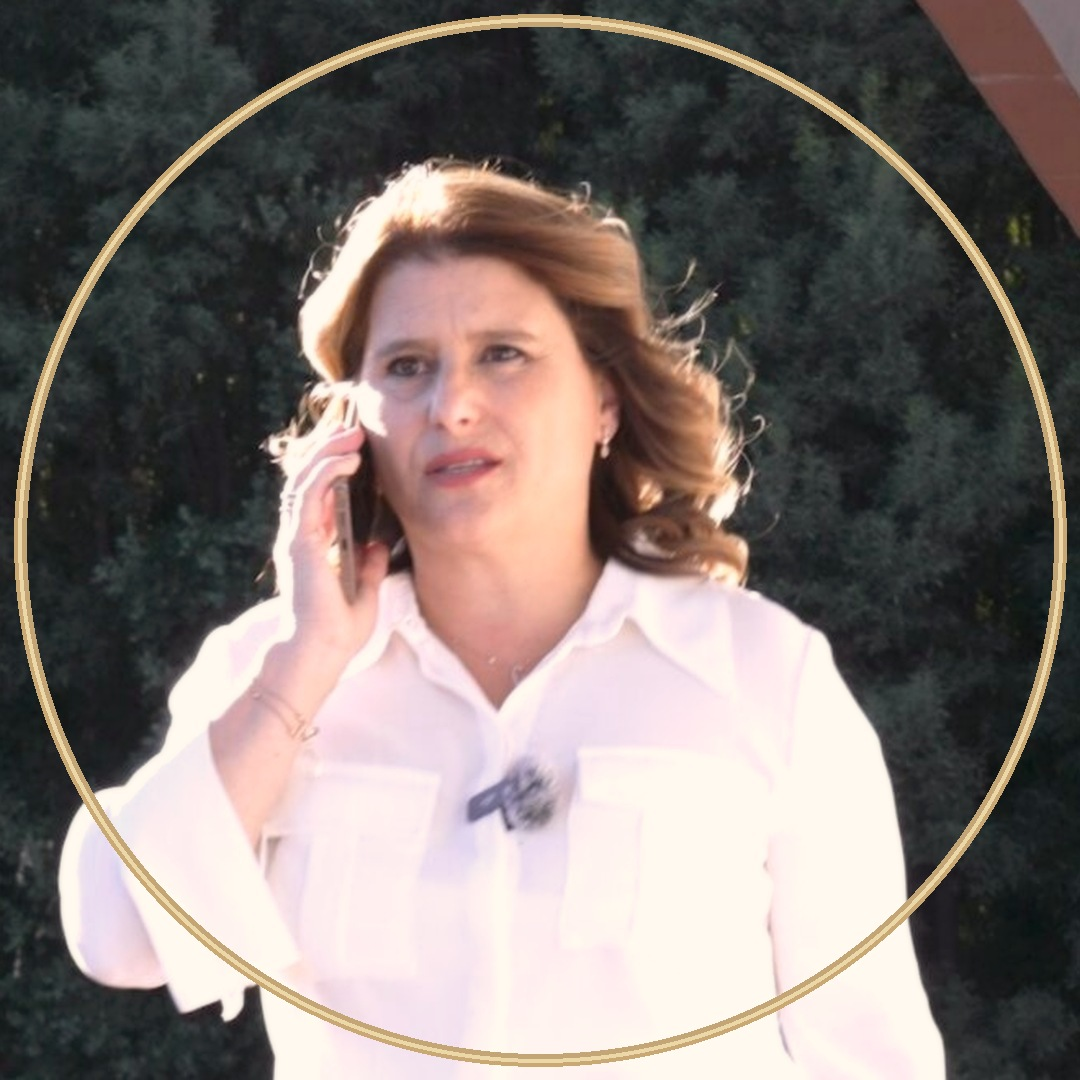
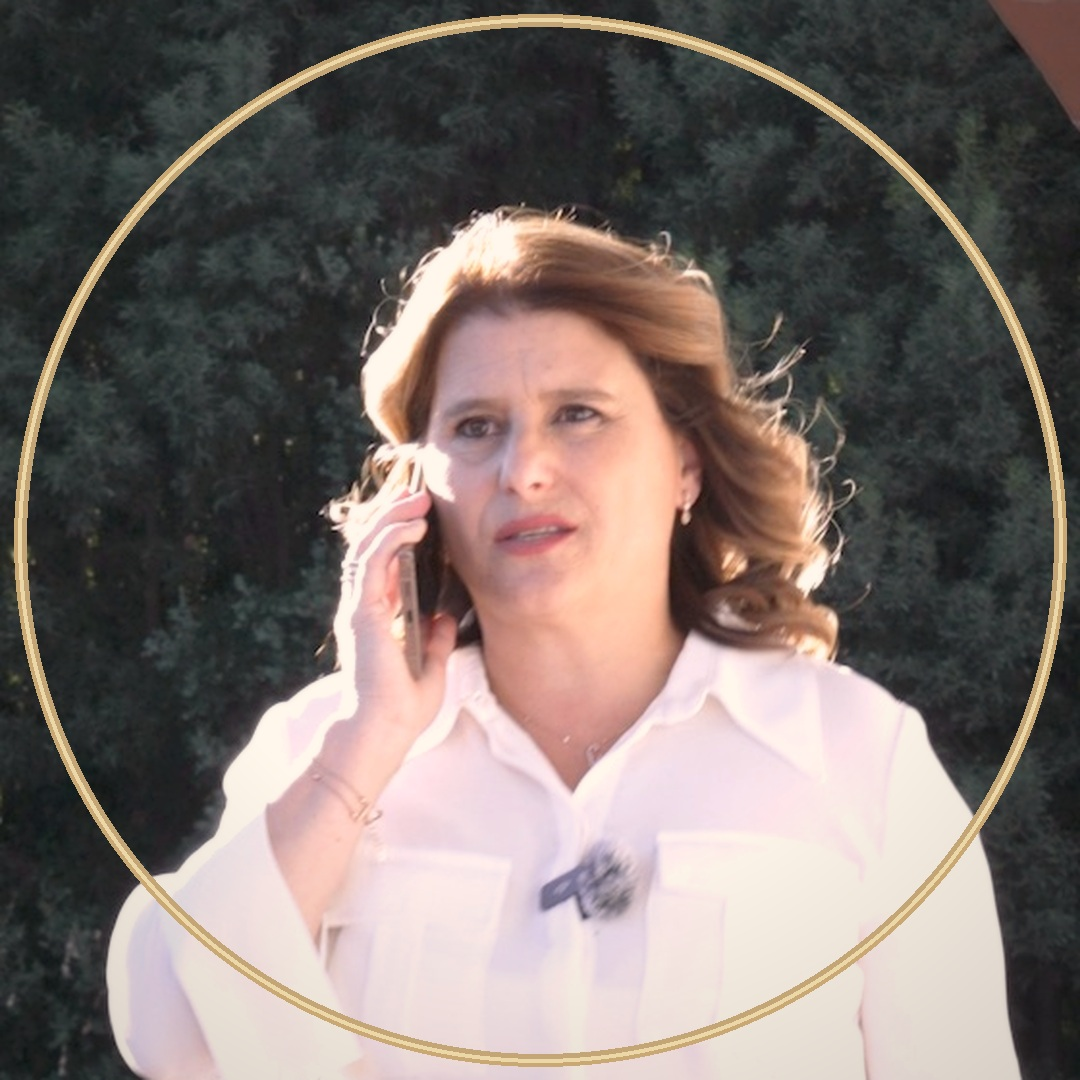
Kit Instagram: fotos de perfil editadas a partir das fotos novas
Claude-Session: https://claude.ai/code/session_011GuU4FWcGt2gAwoDV6aCC4

diff --git a/estrategia/instagram-kit.html b/estrategia/instagram-kit.html
@@ -89,7 +89,7 @@ footer{font-size:12px;color:var(--suave);border-top:1px solid var(--linha);paddi
 <section>
   <div class="sec"><span class="n">2</span><h2>Preencher o perfil</h2></div>
   <div class="perfil">
-    <div style="display:flex;flex-direction:column;gap:8px;align-items:flex-start"><img src="instagram/perfil-telemovel.jpg" alt="Foto de perfil: a Dra. Sónia ao telemóvel"><span class="lbl">Foto de perfil</span><a class="dl" href="instagram/perfil-telemovel.jpg" target="_blank" rel="noopener">Abrir para guardar (sem anel)</a><a class="dl" href="instagram/perfil-telemovel-anel.jpg" target="_blank" rel="noopener">Versão com anel dourado</a><a class="dl" href="whatsapp/foto-perfil.jpg" target="_blank" rel="noopener">Alternativa: selo do escritório</a></div>
+    <div style="display:flex;flex-direction:column;gap:8px;align-items:flex-start"><img src="instagram/perfil-telemovel.jpg" alt="Foto de perfil: a Dra. Sónia ao telemóvel"><span class="lbl">Foto de perfil</span><a class="dl" href="instagram/perfil-telemovel.jpg" target="_blank" rel="noopener">Abrir para guardar (sem anel)</a><a class="dl" href="instagram/perfil-telemovel-anel.jpg" target="_blank" rel="noopener">Versão com anel dourado</a><a class="dl" href="instagram/perfil-escritorio.jpg" target="_blank" rel="noopener">Alternativa: no escritório</a><a class="dl" href="whatsapp/foto-perfil.jpg" target="_blank" rel="noopener">Alternativa: selo do escritório</a></div>
     <div class="campos" id="campos"></div>
   </div>
 </section>
